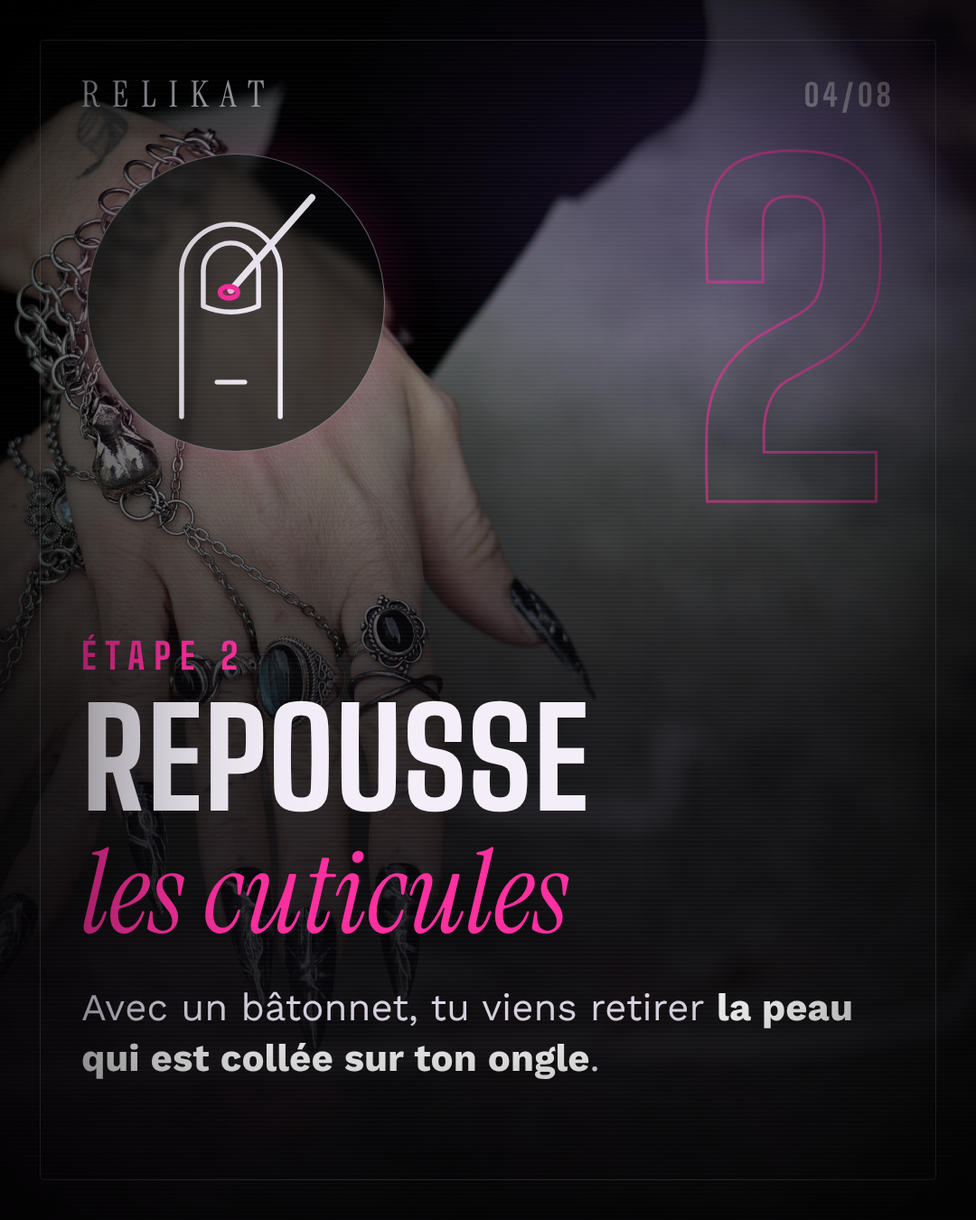
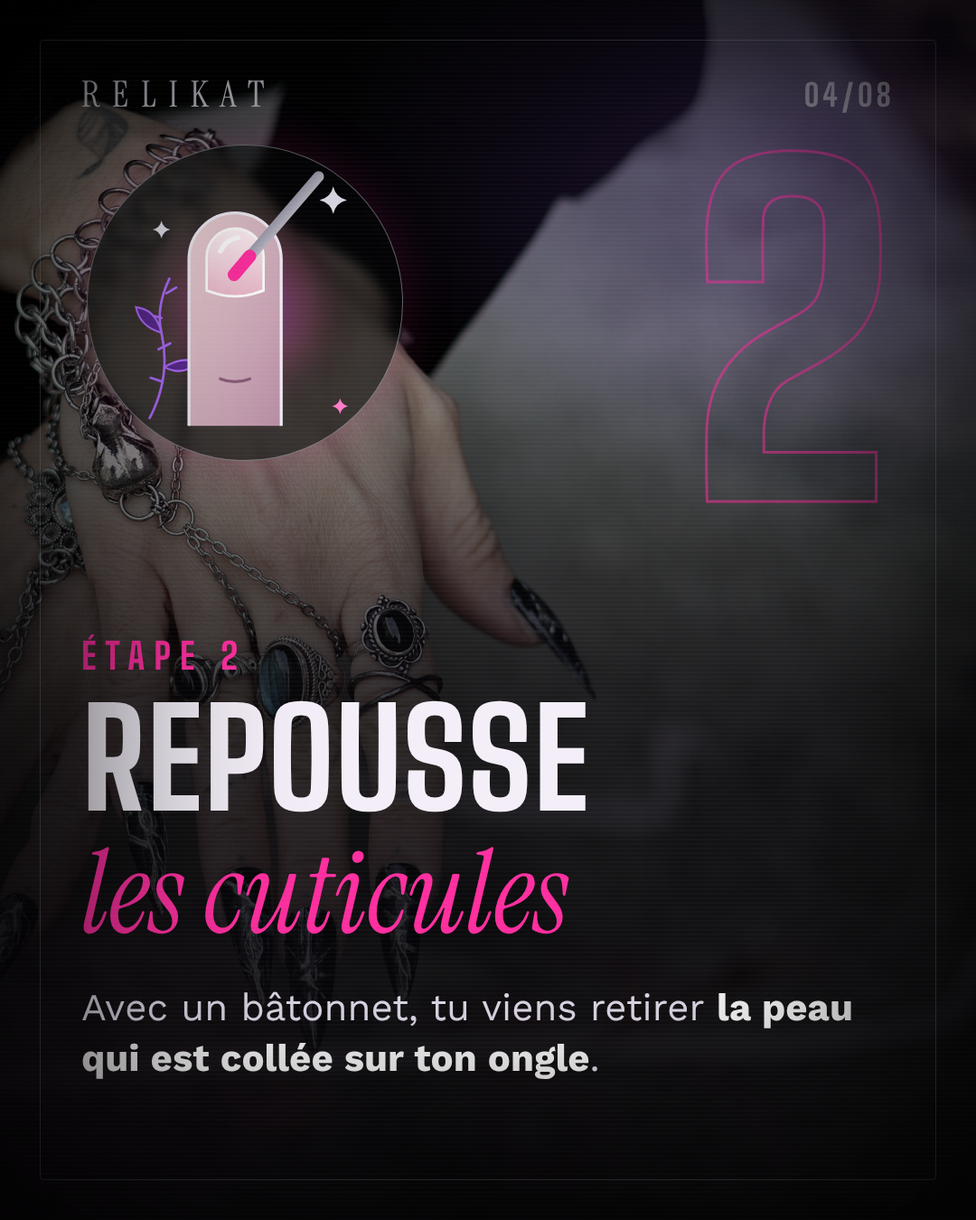
Carrousel RELIKAT : illustrations détaillées version dark
Claude-Session: https://claude.ai/code/session_0146tJhNhDf1eUKpWvX2gybg

Changed region(s): [[0.1222, 0.1244, 0.4278, 0.4044], [0.1528, 0.1244, 0.2139, 0.1556], [0.2444, 0.0933, 0.275, 0.1244]]

diff --git a/relikat-carrousel-prepa/carrousel.html b/relikat-carrousel-prepa/carrousel.html
@@ -43,7 +43,7 @@ h1 em{font-family:ISerif;font-weight:400;font-style:normal;text-transform:none;c
  radial-gradient(800px 700px at 0% 100%,rgba(255,47,160,.25),transparent 60%)}
 .full .shade{background:linear-gradient(180deg,rgba(8,7,10,.45),rgba(8,7,10,.78) 35%,rgba(8,7,10,.88)),
  radial-gradient(900px 700px at 85% 10%,rgba(155,92,255,.30),transparent 60%)}
-.ic{position:absolute;left:96px;top:170px;width:330px;height:330px;border-radius:50%;border:1.5px solid rgba(217,217,227,.45);
+.ic{position:absolute;left:96px;top:160px;width:350px;height:350px;border-radius:50%;border:1.5px solid rgba(217,217,227,.45);
  background:rgba(8,7,10,.55);backdrop-filter:blur(6px);display:flex;align-items:center;justify-content:center;box-shadow:0 0 60px rgba(255,47,160,.18)}
 svg .ln{fill:none;stroke:#f3eef7;stroke-width:5;stroke-linecap:round;stroke-linejoin:round}
 svg .ln.thin{stroke-width:3;stroke:#ff2fa0}
@@ -62,6 +62,12 @@ svg .sp{fill:#d9d9e3;font-size:34px}
  <linearGradient id="g" x1="0" y1="0" x2="1" y2="1"><stop offset="0" stop-color="#ff2fa0"/><stop offset=".55" stop-color="#9b5cff"/><stop offset="1" stop-color="#1a0f2a"/></linearGradient>
  <linearGradient id="c" x1="0" y1="0" x2="1" y2="0"><stop offset="0" stop-color="#fff" stop-opacity=".0"/><stop offset=".5" stop-color="#fff" stop-opacity=".7"/><stop offset="1" stop-color="#fff" stop-opacity="0"/></linearGradient>
  <symbol id="stil" viewBox="0 0 200 420"><path d="M20 420 C20 250 40 120 100 0 C160 120 180 250 180 420 Z" fill="url(#g)" stroke="#d9d9e3" stroke-width="3"/><path d="M70 380 C70 260 80 160 100 70" stroke="url(#c)" stroke-width="10" fill="none" stroke-linecap="round"/></symbol>
+<linearGradient id="skin" x1="0" y1="0" x2="1" y2="1"><stop offset="0" stop-color="#f0d6d8"/><stop offset="1" stop-color="#b98ea6"/></linearGradient>
+ <linearGradient id="nailp" x1="0" y1="0" x2="0" y2="1"><stop offset="0" stop-color="#fff3f6"/><stop offset="1" stop-color="#e9b7c9"/></linearGradient>
+ <linearGradient id="fv" x1="0" y1="0" x2="1" y2="1"><stop offset="0" stop-color="#ff2fa0"/><stop offset="1" stop-color="#7b3cff"/></linearGradient>
+ <linearGradient id="chrome" x1="0" y1="0" x2="1" y2="1"><stop offset="0" stop-color="#ffffff"/><stop offset=".45" stop-color="#9a98a8"/><stop offset=".7" stop-color="#f4f3f8"/><stop offset="1" stop-color="#6d6b7a"/></linearGradient>
+ <linearGradient id="blk" x1="0" y1="0" x2="1" y2="1"><stop offset="0" stop-color="#2a1640"/><stop offset=".6" stop-color="#0b0710"/><stop offset="1" stop-color="#5a2a90"/></linearGradient>
+ <radialGradient id="halo"><stop offset="0" stop-color="#9b5cff" stop-opacity=".55"/><stop offset=".6" stop-color="#ff2fa0" stop-opacity=".12"/><stop offset="1" stop-color="#000" stop-opacity="0"/></radialGradient>
 </defs></svg>
 
 <!-- 1 COVER -->
@@ -80,27 +86,27 @@ svg .sp{fill:#d9d9e3;font-size:34px}
  <div class="txt">C’est presque toujours <b>la prépa</b> : un ongle brillant ou gras, et ça ne peut pas accrocher.</div>
  <div class="hand">Alors on prépare →</div></div></section>
 <section class="s" id="s3"><div class="bg" style="background-image:url(p-boite-poste.jpg);background-position:center 20%"></div><div class="shade"></div><div class="frame"></div><div class="brand">RELIKAT</div><div class="pg">03/08</div><div class="num">1</div>
- <div class="ic"><svg viewBox="0 0 210 250" width="230" height="273"><path d="M50 240 V95 A50 50 0 0 1 150 95 V240" class="ln"/><path d="M72 128 V92 A28 28 0 0 1 128 92 V128 Q100 140 72 128 Z" class="ln"/><path d="M86 205 H114" class="ln"/><g transform="rotate(-18 105 62)"><rect x="18" y="42" width="175" height="40" rx="20" class="ln fill"/><path d="M40 62 H170" class="ln thin"/></g></svg></div>
+ <div class="ic"><svg viewBox="0 0 230 290" width="250" height="315"><circle cx="115" cy="150" r="118" fill="url(#halo)"/><g stroke="#b06cff" stroke-width="2.5" fill="none" stroke-linecap="round"><path d="M18 262 Q40 220 30 175 Q24 150 38 120"/><path d="M31 225 l-12 -4 M27 192 l12 -6 M30 160 l-12 -3 M35 135 l10 -6"/></g><path d="M30 175 q-22 -6 -26 -26 q20 2 26 26z" fill="#5a2a90" stroke="#b06cff" stroke-width="2"/><path d="M33 210 q20 -12 34 -4 q-16 14 -34 4z" fill="#5a2a90" stroke="#b06cff" stroke-width="2"/><path d="M205 26 Q207.52 37.48 219 40 Q207.52 42.52 205 54 Q202.48 42.52 191 40 Q202.48 37.48 205 26Z" fill="#e9e7f2"/><path d="M30 61 Q31.62 68.38 39 70 Q31.62 71.62 30 79 Q28.38 71.62 21 70 Q28.38 68.38 30 61Z" fill="#e9e7f2"/><path d="M212 242 Q213.44 248.56 220 250 Q213.44 251.44 212 258 Q210.56 251.44 204 250 Q210.56 248.56 212 242Z" fill="#ff7cc8"/><path d="M58 270 V100 A47 47 0 0 1 152 100 V270" fill="url(#skin)" stroke="#f3eef7" stroke-width="3"/><path d="M76 132 V98 A29 29 0 0 1 134 98 V132 Q105 144 76 132 Z" fill="url(#nailp)" stroke="#fff" stroke-width="2.5"/><path d="M90 92 Q96 80 108 78" stroke="#fff" stroke-width="5" stroke-linecap="round" fill="none" opacity=".9"/><path d="M90 222 Q105 228 120 222" stroke="#8a5d78" stroke-width="3" fill="none" stroke-linecap="round"/><g transform="rotate(-18 110 62)"><rect x="22" y="42" width="180" height="42" rx="21" fill="url(#fv)" stroke="url(#chrome)" stroke-width="4"/><rect x="34" y="50" width="156" height="10" rx="5" fill="#fff" opacity=".35"/></g><path d="M196 92 q12 10 6 26 M206 80 q18 16 10 40" stroke="#e9e7f2" stroke-width="3" fill="none" stroke-linecap="round"/></svg></div>
   <div class="content"><div class="kicker">Étape 1</div><h1>Matifie<br><em>tes ongles</em></h1>
  <div class="txt">Tu dois <b>absolument</b> matifier tes ongles avec un buffer. On enlève juste la brillance.</div></div></section>
 <section class="s" id="s4"><div class="bg" style="background-image:url(p-mains-h.png);background-position:78% 70%"></div><div class="shade"></div><div class="frame"></div><div class="brand">RELIKAT</div><div class="pg">04/08</div><div class="num">2</div>
- <div class="ic"><svg viewBox="0 0 210 250" width="230" height="273"><path d="M50 240 V95 A50 50 0 0 1 150 95 V240" class="ln"/><path d="M72 128 V92 A28 28 0 0 1 128 92 V128 Q100 140 72 128 Z" class="ln"/><path d="M86 205 H114" class="ln"/><path d="M100 112 L182 18" class="ln" style="stroke-width:7"/><ellipse cx="98" cy="114" rx="9" ry="6" class="ln fill"/></svg></div>
+ <div class="ic"><svg viewBox="0 0 230 290" width="250" height="315"><circle cx="115" cy="150" r="118" fill="url(#halo)"/><g stroke="#b06cff" stroke-width="2.5" fill="none" stroke-linecap="round"><path d="M18 262 Q40 220 30 175 Q24 150 38 120"/><path d="M31 225 l-12 -4 M27 192 l12 -6 M30 160 l-12 -3 M35 135 l10 -6"/></g><path d="M30 175 q-22 -6 -26 -26 q20 2 26 26z" fill="#5a2a90" stroke="#b06cff" stroke-width="2"/><path d="M33 210 q20 -12 34 -4 q-16 14 -34 4z" fill="#5a2a90" stroke="#b06cff" stroke-width="2"/><path d="M205 26 Q207.52 37.48 219 40 Q207.52 42.52 205 54 Q202.48 42.52 191 40 Q202.48 37.48 205 26Z" fill="#e9e7f2"/><path d="M30 61 Q31.62 68.38 39 70 Q31.62 71.62 30 79 Q28.38 71.62 21 70 Q28.38 68.38 30 61Z" fill="#e9e7f2"/><path d="M212 242 Q213.44 248.56 220 250 Q213.44 251.44 212 258 Q210.56 251.44 204 250 Q210.56 248.56 212 242Z" fill="#ff7cc8"/><path d="M58 270 V100 A47 47 0 0 1 152 100 V270" fill="url(#skin)" stroke="#f3eef7" stroke-width="3"/><path d="M76 132 V98 A29 29 0 0 1 134 98 V132 Q105 144 76 132 Z" fill="url(#nailp)" stroke="#fff" stroke-width="2.5"/><path d="M90 92 Q96 80 108 78" stroke="#fff" stroke-width="5" stroke-linecap="round" fill="none" opacity=".9"/><path d="M90 222 Q105 228 120 222" stroke="#8a5d78" stroke-width="3" fill="none" stroke-linecap="round"/><path d="M104 116 L190 16" stroke="url(#chrome)" stroke-width="11" stroke-linecap="round"/><path d="M104 116 L120 97" stroke="#ff2fa0" stroke-width="13" stroke-linecap="round"/></svg></div>
   <div class="content"><div class="kicker">Étape 2</div><h1>Repousse<br><em>les cuticules</em></h1>
  <div class="txt">Avec un bâtonnet, tu viens retirer <b>la peau qui est collée sur ton ongle</b>.</div></div></section>
 <section class="s" id="s5"><div class="bg" style="background-image:url(p-boite.jpg);background-position:center 40%"></div><div class="shade"></div><div class="frame"></div><div class="brand">RELIKAT</div><div class="pg">05/08</div><div class="num">3</div>
- <div class="ic"><svg viewBox="0 0 210 250" width="230" height="273"><path d="M50 240 V95 A50 50 0 0 1 150 95 V240" class="ln"/><path d="M72 128 V92 A28 28 0 0 1 128 92 V128 Q100 140 72 128 Z" class="ln"/><path d="M86 205 H114" class="ln"/><g transform="rotate(22 135 70)"><rect x="95" y="30" width="85" height="85" rx="6" class="ln fill"/><path d="M110 50 H165 M110 70 H150" class="ln thin"/></g></svg></div>
+ <div class="ic"><svg viewBox="0 0 230 290" width="250" height="315"><circle cx="115" cy="150" r="118" fill="url(#halo)"/><g stroke="#b06cff" stroke-width="2.5" fill="none" stroke-linecap="round"><path d="M18 262 Q40 220 30 175 Q24 150 38 120"/><path d="M31 225 l-12 -4 M27 192 l12 -6 M30 160 l-12 -3 M35 135 l10 -6"/></g><path d="M30 175 q-22 -6 -26 -26 q20 2 26 26z" fill="#5a2a90" stroke="#b06cff" stroke-width="2"/><path d="M33 210 q20 -12 34 -4 q-16 14 -34 4z" fill="#5a2a90" stroke="#b06cff" stroke-width="2"/><path d="M205 26 Q207.52 37.48 219 40 Q207.52 42.52 205 54 Q202.48 42.52 191 40 Q202.48 37.48 205 26Z" fill="#e9e7f2"/><path d="M30 61 Q31.62 68.38 39 70 Q31.62 71.62 30 79 Q28.38 71.62 21 70 Q28.38 68.38 30 61Z" fill="#e9e7f2"/><path d="M212 242 Q213.44 248.56 220 250 Q213.44 251.44 212 258 Q210.56 251.44 204 250 Q210.56 248.56 212 242Z" fill="#ff7cc8"/><path d="M58 270 V100 A47 47 0 0 1 152 100 V270" fill="url(#skin)" stroke="#f3eef7" stroke-width="3"/><path d="M76 132 V98 A29 29 0 0 1 134 98 V132 Q105 144 76 132 Z" fill="url(#nailp)" stroke="#fff" stroke-width="2.5"/><path d="M90 92 Q96 80 108 78" stroke="#fff" stroke-width="5" stroke-linecap="round" fill="none" opacity=".9"/><path d="M90 222 Q105 228 120 222" stroke="#8a5d78" stroke-width="3" fill="none" stroke-linecap="round"/><g transform="rotate(22 145 75)"><rect x="100" y="32" width="92" height="92" rx="8" fill="#efe9ff" fill-opacity=".92" stroke="url(#chrome)" stroke-width="3"/><path d="M100 32 L192 124" stroke="#c9b8ff" stroke-width="2"/><path d="M118 56 H170 M118 76 H160" stroke="#9b5cff" stroke-width="3" stroke-linecap="round"/></g></svg></div>
   <div class="content"><div class="kicker">Étape 3</div><h1>Nettoie<br><em>la plaque de l’ongle</em></h1>
  <div class="txt">Tu viens prendre une <b>lingette d’alcool</b> et tu la passes sur chaque ongle.</div></div></section>
 <section class="s" id="s6"><div class="bg" style="background-image:url(p-boite-poste.jpg);background-position:center 60%"></div><div class="shade"></div><div class="frame"></div><div class="brand">RELIKAT</div><div class="pg">06/08</div><div class="num">4</div>
- <div class="ic"><svg viewBox="0 0 210 250" width="230" height="273"><path d="M50 240 V95 A50 50 0 0 1 150 95 V240" class="ln"/><path d="M72 128 V92 A28 28 0 0 1 128 92 V128 Q100 140 72 128 Z" class="ln"/><path d="M86 205 H114" class="ln"/><path d="M130 230 C130 165 142 110 162 45 C182 110 194 165 194 230 Z" class="ln fill" transform="translate(-10 -40)"/><g transform="rotate(-15 160 160)"><rect x="118" y="120" width="70" height="70" rx="6" class="ln fill"/><path d="M130 140 H175 M130 158 H165" class="ln thin"/></g></svg></div>
+ <div class="ic"><svg viewBox="0 0 230 290" width="250" height="315"><circle cx="115" cy="150" r="118" fill="url(#halo)"/><g stroke="#b06cff" stroke-width="2.5" fill="none" stroke-linecap="round"><path d="M18 262 Q40 220 30 175 Q24 150 38 120"/><path d="M31 225 l-12 -4 M27 192 l12 -6 M30 160 l-12 -3 M35 135 l10 -6"/></g><path d="M30 175 q-22 -6 -26 -26 q20 2 26 26z" fill="#5a2a90" stroke="#b06cff" stroke-width="2"/><path d="M33 210 q20 -12 34 -4 q-16 14 -34 4z" fill="#5a2a90" stroke="#b06cff" stroke-width="2"/><path d="M205 26 Q207.52 37.48 219 40 Q207.52 42.52 205 54 Q202.48 42.52 191 40 Q202.48 37.48 205 26Z" fill="#e9e7f2"/><path d="M30 61 Q31.62 68.38 39 70 Q31.62 71.62 30 79 Q28.38 71.62 21 70 Q28.38 68.38 30 61Z" fill="#e9e7f2"/><path d="M212 242 Q213.44 248.56 220 250 Q213.44 251.44 212 258 Q210.56 251.44 204 250 Q210.56 248.56 212 242Z" fill="#ff7cc8"/><path d="M58 270 V100 A47 47 0 0 1 152 100 V270" fill="url(#skin)" stroke="#f3eef7" stroke-width="3"/><path d="M76 132 V98 A29 29 0 0 1 134 98 V132 Q105 144 76 132 Z" fill="url(#nailp)" stroke="#fff" stroke-width="2.5"/><path d="M90 92 Q96 80 108 78" stroke="#fff" stroke-width="5" stroke-linecap="round" fill="none" opacity=".9"/><path d="M90 222 Q105 228 120 222" stroke="#8a5d78" stroke-width="3" fill="none" stroke-linecap="round"/><path d="M150 210 C150 150 160 95 182 25 C204 95 214 150 214 210 Z" fill="url(#fv)" stroke="url(#chrome)" stroke-width="3"/><path d="M176 60 Q170 120 172 180" stroke="#fff" stroke-width="5" fill="none" opacity=".7" stroke-linecap="round"/><g transform="rotate(-14 170 190)"><rect x="128" y="150" width="78" height="78" rx="7" fill="#efe9ff" fill-opacity=".92" stroke="url(#chrome)" stroke-width="3"/><path d="M142 172 H190 M142 192 H180" stroke="#9b5cff" stroke-width="3" stroke-linecap="round"/></g></svg></div>
   <div class="content"><div class="kicker">Étape 4 · Bonus</div><h1>Lingette<br><em>sous le press on</em></h1>
  <div class="txt">Tu viens passer aussi un petit coup de lingette <b>sous la capsule</b>, pour qu’elle soit propre des deux côtés.</div><div class="hand">le petit détail qui change tout ♡</div></div></section>
 <section class="s" id="s7"><div class="bg" style="background-image:url(p-boite.jpg);background-position:center 35%"></div><div class="shade"></div><div class="frame"></div><div class="brand">RELIKAT</div><div class="pg">07/08</div><div class="num">5</div>
- <div class="ic"><svg viewBox="0 0 210 250" width="230" height="273"><path d="M50 240 V95 A50 50 0 0 1 150 95 V240" class="ln"/><path d="M72 128 V92 A28 28 0 0 1 128 92 V128 Q100 140 72 128 Z" class="ln"/><path d="M86 205 H114" class="ln"/><rect x="78" y="88" width="44" height="34" rx="12" class="pad"/><text x="22" y="70" class="sp">✦</text><text x="160" y="150" class="sp">✦</text></svg></div>
+ <div class="ic"><svg viewBox="0 0 230 290" width="250" height="315"><circle cx="115" cy="150" r="118" fill="url(#halo)"/><g stroke="#b06cff" stroke-width="2.5" fill="none" stroke-linecap="round"><path d="M18 262 Q40 220 30 175 Q24 150 38 120"/><path d="M31 225 l-12 -4 M27 192 l12 -6 M30 160 l-12 -3 M35 135 l10 -6"/></g><path d="M30 175 q-22 -6 -26 -26 q20 2 26 26z" fill="#5a2a90" stroke="#b06cff" stroke-width="2"/><path d="M33 210 q20 -12 34 -4 q-16 14 -34 4z" fill="#5a2a90" stroke="#b06cff" stroke-width="2"/><path d="M205 26 Q207.52 37.48 219 40 Q207.52 42.52 205 54 Q202.48 42.52 191 40 Q202.48 37.48 205 26Z" fill="#e9e7f2"/><path d="M30 61 Q31.62 68.38 39 70 Q31.62 71.62 30 79 Q28.38 71.62 21 70 Q28.38 68.38 30 61Z" fill="#e9e7f2"/><path d="M212 242 Q213.44 248.56 220 250 Q213.44 251.44 212 258 Q210.56 251.44 204 250 Q210.56 248.56 212 242Z" fill="#ff7cc8"/><path d="M58 270 V100 A47 47 0 0 1 152 100 V270" fill="url(#skin)" stroke="#f3eef7" stroke-width="3"/><path d="M76 132 V98 A29 29 0 0 1 134 98 V132 Q105 144 76 132 Z" fill="url(#nailp)" stroke="#fff" stroke-width="2.5"/><path d="M90 92 Q96 80 108 78" stroke="#fff" stroke-width="5" stroke-linecap="round" fill="none" opacity=".9"/><path d="M90 222 Q105 228 120 222" stroke="#8a5d78" stroke-width="3" fill="none" stroke-linecap="round"/><rect x="82" y="94" width="46" height="34" rx="13" fill="#ff2fa0" fill-opacity=".55" stroke="#ffd0ea" stroke-width="2.5"/><path d="M90 102 h16" stroke="#fff" stroke-width="4" stroke-linecap="round"/><g transform="translate(160 150)"><rect x="0" y="0" width="58" height="80" rx="8" fill="#1a0f2a" stroke="url(#chrome)" stroke-width="3"/><rect x="10" y="10" width="16" height="12" rx="5" fill="#ff2fa0" opacity=".7"/><rect x="32" y="10" width="16" height="12" rx="5" fill="#ff2fa0" opacity=".7"/><rect x="10" y="32" width="16" height="12" rx="5" fill="#ff2fa0" opacity=".7"/><rect x="32" y="32" width="16" height="12" rx="5" fill="#ff2fa0" opacity=".7"/><rect x="10" y="54" width="16" height="12" rx="5" fill="#9b5cff" opacity=".7"/><rect x="32" y="54" width="16" height="12" rx="5" fill="#9b5cff" opacity=".7"/></g></svg></div>
   <div class="content"><div class="kicker">Étape 5</div><h1>Gel pad<br><em>à ta taille</em></h1>
  <div class="txt">Tu prends ton gel pad et tu choisis <b>la bonne taille pour ton ongle</b>. Ensuite, place à la pose.</div></div></section>
 <!-- 8 CTA -->
 <section class="s full" id="s8"><div class="bg" style="background-image:url(p-portrait.png);background-position:center 25%"></div><div class="shade"></div><div class="frame"></div><div class="brand">RELIKAT</div><div class="pg">08/08</div>
  
- <div class="content" style="bottom:auto;top:200px"><div class="kicker">Récap</div><h1 style="font-size:120px">Prête <em>pour la pose.</em></h1><div class="grid"><div class="cell"><svg viewBox="0 0 210 250" width="130" height="154"><path d="M50 240 V95 A50 50 0 0 1 150 95 V240" class="ln"/><path d="M72 128 V92 A28 28 0 0 1 128 92 V128 Q100 140 72 128 Z" class="ln"/><path d="M86 205 H114" class="ln"/><g transform="rotate(-18 105 62)"><rect x="18" y="42" width="175" height="40" rx="20" class="ln fill"/><path d="M40 62 H170" class="ln thin"/></g></svg><div class="n">ÉTAPE 1</div><div class="l">Matifie au buffer</div></div><div class="cell"><svg viewBox="0 0 210 250" width="130" height="154"><path d="M50 240 V95 A50 50 0 0 1 150 95 V240" class="ln"/><path d="M72 128 V92 A28 28 0 0 1 128 92 V128 Q100 140 72 128 Z" class="ln"/><path d="M86 205 H114" class="ln"/><path d="M100 112 L182 18" class="ln" style="stroke-width:7"/><ellipse cx="98" cy="114" rx="9" ry="6" class="ln fill"/></svg><div class="n">ÉTAPE 2</div><div class="l">Repousse les cuticules</div></div><div class="cell"><svg viewBox="0 0 210 250" width="130" height="154"><path d="M50 240 V95 A50 50 0 0 1 150 95 V240" class="ln"/><path d="M72 128 V92 A28 28 0 0 1 128 92 V128 Q100 140 72 128 Z" class="ln"/><path d="M86 205 H114" class="ln"/><g transform="rotate(22 135 70)"><rect x="95" y="30" width="85" height="85" rx="6" class="ln fill"/><path d="M110 50 H165 M110 70 H150" class="ln thin"/></g></svg><div class="n">ÉTAPE 3</div><div class="l">Nettoie à l’alcool</div></div><div class="cell"><svg viewBox="0 0 210 250" width="130" height="154"><path d="M50 240 V95 A50 50 0 0 1 150 95 V240" class="ln"/><path d="M72 128 V92 A28 28 0 0 1 128 92 V128 Q100 140 72 128 Z" class="ln"/><path d="M86 205 H114" class="ln"/><path d="M130 230 C130 165 142 110 162 45 C182 110 194 165 194 230 Z" class="ln fill" transform="translate(-10 -40)"/><g transform="rotate(-15 160 160)"><rect x="118" y="120" width="70" height="70" rx="6" class="ln fill"/><path d="M130 140 H175 M130 158 H165" class="ln thin"/></g></svg><div class="n">ÉTAPE 4</div><div class="l">Lingette sous le press on</div></div><div class="cell"><svg viewBox="0 0 210 250" width="130" height="154"><path d="M50 240 V95 A50 50 0 0 1 150 95 V240" class="ln"/><path d="M72 128 V92 A28 28 0 0 1 128 92 V128 Q100 140 72 128 Z" class="ln"/><path d="M86 205 H114" class="ln"/><rect x="78" y="88" width="44" height="34" rx="12" class="pad"/><text x="22" y="70" class="sp">✦</text><text x="160" y="150" class="sp">✦</text></svg><div class="n">ÉTAPE 5</div><div class="l">Gel pad à ta taille</div></div><div class="cell tip"><div class="n">✦ ASTUCE</div><div class="l">Appuie bien et évite l’eau la 1<sup>re</sup> heure</div></div></div><div class="tag">Enregistre pour ta prochaine pose</div></div></section>
+ <div class="content" style="bottom:auto;top:200px"><div class="kicker">Récap</div><h1 style="font-size:120px">Prête <em>pour la pose.</em></h1><div class="grid"><div class="cell"><svg viewBox="0 0 230 290" width="136" height="171"><circle cx="115" cy="150" r="118" fill="url(#halo)"/><g stroke="#b06cff" stroke-width="2.5" fill="none" stroke-linecap="round"><path d="M18 262 Q40 220 30 175 Q24 150 38 120"/><path d="M31 225 l-12 -4 M27 192 l12 -6 M30 160 l-12 -3 M35 135 l10 -6"/></g><path d="M30 175 q-22 -6 -26 -26 q20 2 26 26z" fill="#5a2a90" stroke="#b06cff" stroke-width="2"/><path d="M33 210 q20 -12 34 -4 q-16 14 -34 4z" fill="#5a2a90" stroke="#b06cff" stroke-width="2"/><path d="M205 26 Q207.52 37.48 219 40 Q207.52 42.52 205 54 Q202.48 42.52 191 40 Q202.48 37.48 205 26Z" fill="#e9e7f2"/><path d="M30 61 Q31.62 68.38 39 70 Q31.62 71.62 30 79 Q28.38 71.62 21 70 Q28.38 68.38 30 61Z" fill="#e9e7f2"/><path d="M212 242 Q213.44 248.56 220 250 Q213.44 251.44 212 258 Q210.56 251.44 204 250 Q210.56 248.56 212 242Z" fill="#ff7cc8"/><path d="M58 270 V100 A47 47 0 0 1 152 100 V270" fill="url(#skin)" stroke="#f3eef7" stroke-width="3"/><path d="M76 132 V98 A29 29 0 0 1 134 98 V132 Q105 144 76 132 Z" fill="url(#nailp)" stroke="#fff" stroke-width="2.5"/><path d="M90 92 Q96 80 108 78" stroke="#fff" stroke-width="5" stroke-linecap="round" fill="none" opacity=".9"/><path d="M90 222 Q105 228 120 222" stroke="#8a5d78" stroke-width="3" fill="none" stroke-linecap="round"/><g transform="rotate(-18 110 62)"><rect x="22" y="42" width="180" height="42" rx="21" fill="url(#fv)" stroke="url(#chrome)" stroke-width="4"/><rect x="34" y="50" width="156" height="10" rx="5" fill="#fff" opacity=".35"/></g><path d="M196 92 q12 10 6 26 M206 80 q18 16 10 40" stroke="#e9e7f2" stroke-width="3" fill="none" stroke-linecap="round"/></svg><div class="n">ÉTAPE 1</div><div class="l">Matifie au buffer</div></div><div class="cell"><svg viewBox="0 0 230 290" width="136" height="171"><circle cx="115" cy="150" r="118" fill="url(#halo)"/><g stroke="#b06cff" stroke-width="2.5" fill="none" stroke-linecap="round"><path d="M18 262 Q40 220 30 175 Q24 150 38 120"/><path d="M31 225 l-12 -4 M27 192 l12 -6 M30 160 l-12 -3 M35 135 l10 -6"/></g><path d="M30 175 q-22 -6 -26 -26 q20 2 26 26z" fill="#5a2a90" stroke="#b06cff" stroke-width="2"/><path d="M33 210 q20 -12 34 -4 q-16 14 -34 4z" fill="#5a2a90" stroke="#b06cff" stroke-width="2"/><path d="M205 26 Q207.52 37.48 219 40 Q207.52 42.52 205 54 Q202.48 42.52 191 40 Q202.48 37.48 205 26Z" fill="#e9e7f2"/><path d="M30 61 Q31.62 68.38 39 70 Q31.62 71.62 30 79 Q28.38 71.62 21 70 Q28.38 68.38 30 61Z" fill="#e9e7f2"/><path d="M212 242 Q213.44 248.56 220 250 Q213.44 251.44 212 258 Q210.56 251.44 204 250 Q210.56 248.56 212 242Z" fill="#ff7cc8"/><path d="M58 270 V100 A47 47 0 0 1 152 100 V270" fill="url(#skin)" stroke="#f3eef7" stroke-width="3"/><path d="M76 132 V98 A29 29 0 0 1 134 98 V132 Q105 144 76 132 Z" fill="url(#nailp)" stroke="#fff" stroke-width="2.5"/><path d="M90 92 Q96 80 108 78" stroke="#fff" stroke-width="5" stroke-linecap="round" fill="none" opacity=".9"/><path d="M90 222 Q105 228 120 222" stroke="#8a5d78" stroke-width="3" fill="none" stroke-linecap="round"/><path d="M104 116 L190 16" stroke="url(#chrome)" stroke-width="11" stroke-linecap="round"/><path d="M104 116 L120 97" stroke="#ff2fa0" stroke-width="13" stroke-linecap="round"/></svg><div class="n">ÉTAPE 2</div><div class="l">Repousse les cuticules</div></div><div class="cell"><svg viewBox="0 0 230 290" width="136" height="171"><circle cx="115" cy="150" r="118" fill="url(#halo)"/><g stroke="#b06cff" stroke-width="2.5" fill="none" stroke-linecap="round"><path d="M18 262 Q40 220 30 175 Q24 150 38 120"/><path d="M31 225 l-12 -4 M27 192 l12 -6 M30 160 l-12 -3 M35 135 l10 -6"/></g><path d="M30 175 q-22 -6 -26 -26 q20 2 26 26z" fill="#5a2a90" stroke="#b06cff" stroke-width="2"/><path d="M33 210 q20 -12 34 -4 q-16 14 -34 4z" fill="#5a2a90" stroke="#b06cff" stroke-width="2"/><path d="M205 26 Q207.52 37.48 219 40 Q207.52 42.52 205 54 Q202.48 42.52 191 40 Q202.48 37.48 205 26Z" fill="#e9e7f2"/><path d="M30 61 Q31.62 68.38 39 70 Q31.62 71.62 30 79 Q28.38 71.62 21 70 Q28.38 68.38 30 61Z" fill="#e9e7f2"/><path d="M212 242 Q213.44 248.56 220 250 Q213.44 251.44 212 258 Q210.56 251.44 204 250 Q210.56 248.56 212 242Z" fill="#ff7cc8"/><path d="M58 270 V100 A47 47 0 0 1 152 100 V270" fill="url(#skin)" stroke="#f3eef7" stroke-width="3"/><path d="M76 132 V98 A29 29 0 0 1 134 98 V132 Q105 144 76 132 Z" fill="url(#nailp)" stroke="#fff" stroke-width="2.5"/><path d="M90 92 Q96 80 108 78" stroke="#fff" stroke-width="5" stroke-linecap="round" fill="none" opacity=".9"/><path d="M90 222 Q105 228 120 222" stroke="#8a5d78" stroke-width="3" fill="none" stroke-linecap="round"/><g transform="rotate(22 145 75)"><rect x="100" y="32" width="92" height="92" rx="8" fill="#efe9ff" fill-opacity=".92" stroke="url(#chrome)" stroke-width="3"/><path d="M100 32 L192 124" stroke="#c9b8ff" stroke-width="2"/><path d="M118 56 H170 M118 76 H160" stroke="#9b5cff" stroke-width="3" stroke-linecap="round"/></g></svg><div class="n">ÉTAPE 3</div><div class="l">Nettoie à l’alcool</div></div><div class="cell"><svg viewBox="0 0 230 290" width="136" height="171"><circle cx="115" cy="150" r="118" fill="url(#halo)"/><g stroke="#b06cff" stroke-width="2.5" fill="none" stroke-linecap="round"><path d="M18 262 Q40 220 30 175 Q24 150 38 120"/><path d="M31 225 l-12 -4 M27 192 l12 -6 M30 160 l-12 -3 M35 135 l10 -6"/></g><path d="M30 175 q-22 -6 -26 -26 q20 2 26 26z" fill="#5a2a90" stroke="#b06cff" stroke-width="2"/><path d="M33 210 q20 -12 34 -4 q-16 14 -34 4z" fill="#5a2a90" stroke="#b06cff" stroke-width="2"/><path d="M205 26 Q207.52 37.48 219 40 Q207.52 42.52 205 54 Q202.48 42.52 191 40 Q202.48 37.48 205 26Z" fill="#e9e7f2"/><path d="M30 61 Q31.62 68.38 39 70 Q31.62 71.62 30 79 Q28.38 71.62 21 70 Q28.38 68.38 30 61Z" fill="#e9e7f2"/><path d="M212 242 Q213.44 248.56 220 250 Q213.44 251.44 212 258 Q210.56 251.44 204 250 Q210.56 248.56 212 242Z" fill="#ff7cc8"/><path d="M58 270 V100 A47 47 0 0 1 152 100 V270" fill="url(#skin)" stroke="#f3eef7" stroke-width="3"/><path d="M76 132 V98 A29 29 0 0 1 134 98 V132 Q105 144 76 132 Z" fill="url(#nailp)" stroke="#fff" stroke-width="2.5"/><path d="M90 92 Q96 80 108 78" stroke="#fff" stroke-width="5" stroke-linecap="round" fill="none" opacity=".9"/><path d="M90 222 Q105 228 120 222" stroke="#8a5d78" stroke-width="3" fill="none" stroke-linecap="round"/><path d="M150 210 C150 150 160 95 182 25 C204 95 214 150 214 210 Z" fill="url(#fv)" stroke="url(#chrome)" stroke-width="3"/><path d="M176 60 Q170 120 172 180" stroke="#fff" stroke-width="5" fill="none" opacity=".7" stroke-linecap="round"/><g transform="rotate(-14 170 190)"><rect x="128" y="150" width="78" height="78" rx="7" fill="#efe9ff" fill-opacity=".92" stroke="url(#chrome)" stroke-width="3"/><path d="M142 172 H190 M142 192 H180" stroke="#9b5cff" stroke-width="3" stroke-linecap="round"/></g></svg><div class="n">ÉTAPE 4</div><div class="l">Lingette sous le press on</div></div><div class="cell"><svg viewBox="0 0 230 290" width="136" height="171"><circle cx="115" cy="150" r="118" fill="url(#halo)"/><g stroke="#b06cff" stroke-width="2.5" fill="none" stroke-linecap="round"><path d="M18 262 Q40 220 30 175 Q24 150 38 120"/><path d="M31 225 l-12 -4 M27 192 l12 -6 M30 160 l-12 -3 M35 135 l10 -6"/></g><path d="M30 175 q-22 -6 -26 -26 q20 2 26 26z" fill="#5a2a90" stroke="#b06cff" stroke-width="2"/><path d="M33 210 q20 -12 34 -4 q-16 14 -34 4z" fill="#5a2a90" stroke="#b06cff" stroke-width="2"/><path d="M205 26 Q207.52 37.48 219 40 Q207.52 42.52 205 54 Q202.48 42.52 191 40 Q202.48 37.48 205 26Z" fill="#e9e7f2"/><path d="M30 61 Q31.62 68.38 39 70 Q31.62 71.62 30 79 Q28.38 71.62 21 70 Q28.38 68.38 30 61Z" fill="#e9e7f2"/><path d="M212 242 Q213.44 248.56 220 250 Q213.44 251.44 212 258 Q210.56 251.44 204 250 Q210.56 248.56 212 242Z" fill="#ff7cc8"/><path d="M58 270 V100 A47 47 0 0 1 152 100 V270" fill="url(#skin)" stroke="#f3eef7" stroke-width="3"/><path d="M76 132 V98 A29 29 0 0 1 134 98 V132 Q105 144 76 132 Z" fill="url(#nailp)" stroke="#fff" stroke-width="2.5"/><path d="M90 92 Q96 80 108 78" stroke="#fff" stroke-width="5" stroke-linecap="round" fill="none" opacity=".9"/><path d="M90 222 Q105 228 120 222" stroke="#8a5d78" stroke-width="3" fill="none" stroke-linecap="round"/><rect x="82" y="94" width="46" height="34" rx="13" fill="#ff2fa0" fill-opacity=".55" stroke="#ffd0ea" stroke-width="2.5"/><path d="M90 102 h16" stroke="#fff" stroke-width="4" stroke-linecap="round"/><g transform="translate(160 150)"><rect x="0" y="0" width="58" height="80" rx="8" fill="#1a0f2a" stroke="url(#chrome)" stroke-width="3"/><rect x="10" y="10" width="16" height="12" rx="5" fill="#ff2fa0" opacity=".7"/><rect x="32" y="10" width="16" height="12" rx="5" fill="#ff2fa0" opacity=".7"/><rect x="10" y="32" width="16" height="12" rx="5" fill="#ff2fa0" opacity=".7"/><rect x="32" y="32" width="16" height="12" rx="5" fill="#ff2fa0" opacity=".7"/><rect x="10" y="54" width="16" height="12" rx="5" fill="#9b5cff" opacity=".7"/><rect x="32" y="54" width="16" height="12" rx="5" fill="#9b5cff" opacity=".7"/></g></svg><div class="n">ÉTAPE 5</div><div class="l">Gel pad à ta taille</div></div><div class="cell tip"><div class="n">✦ ASTUCE</div><div class="l">Appuie bien et évite l’eau la 1<sup>re</sup> heure</div></div></div><div class="tag">Enregistre pour ta prochaine pose</div></div></section>
 </body></html>
